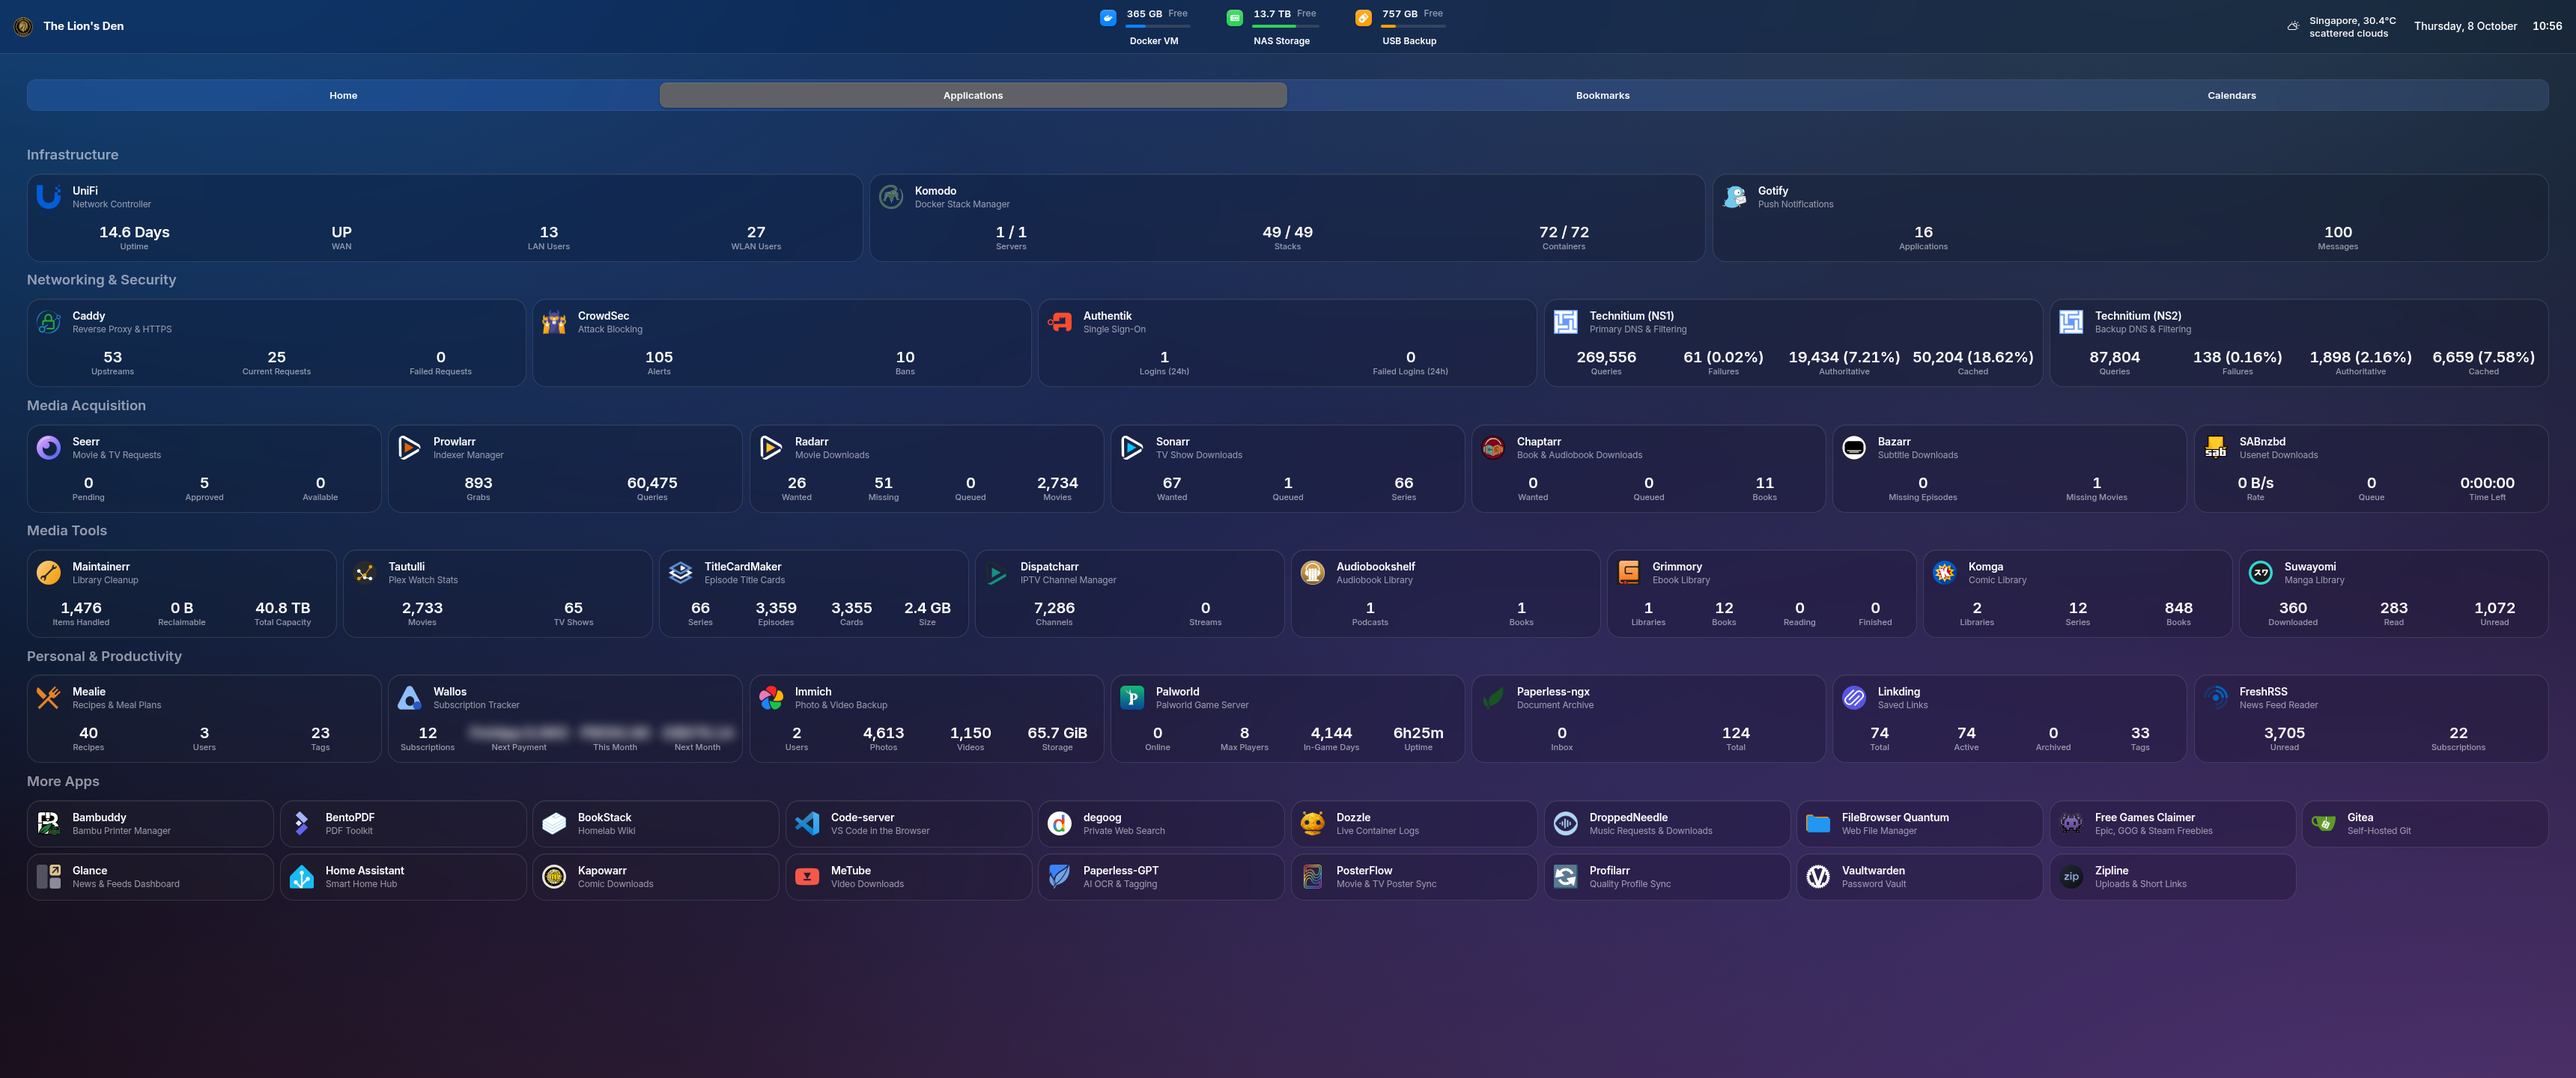
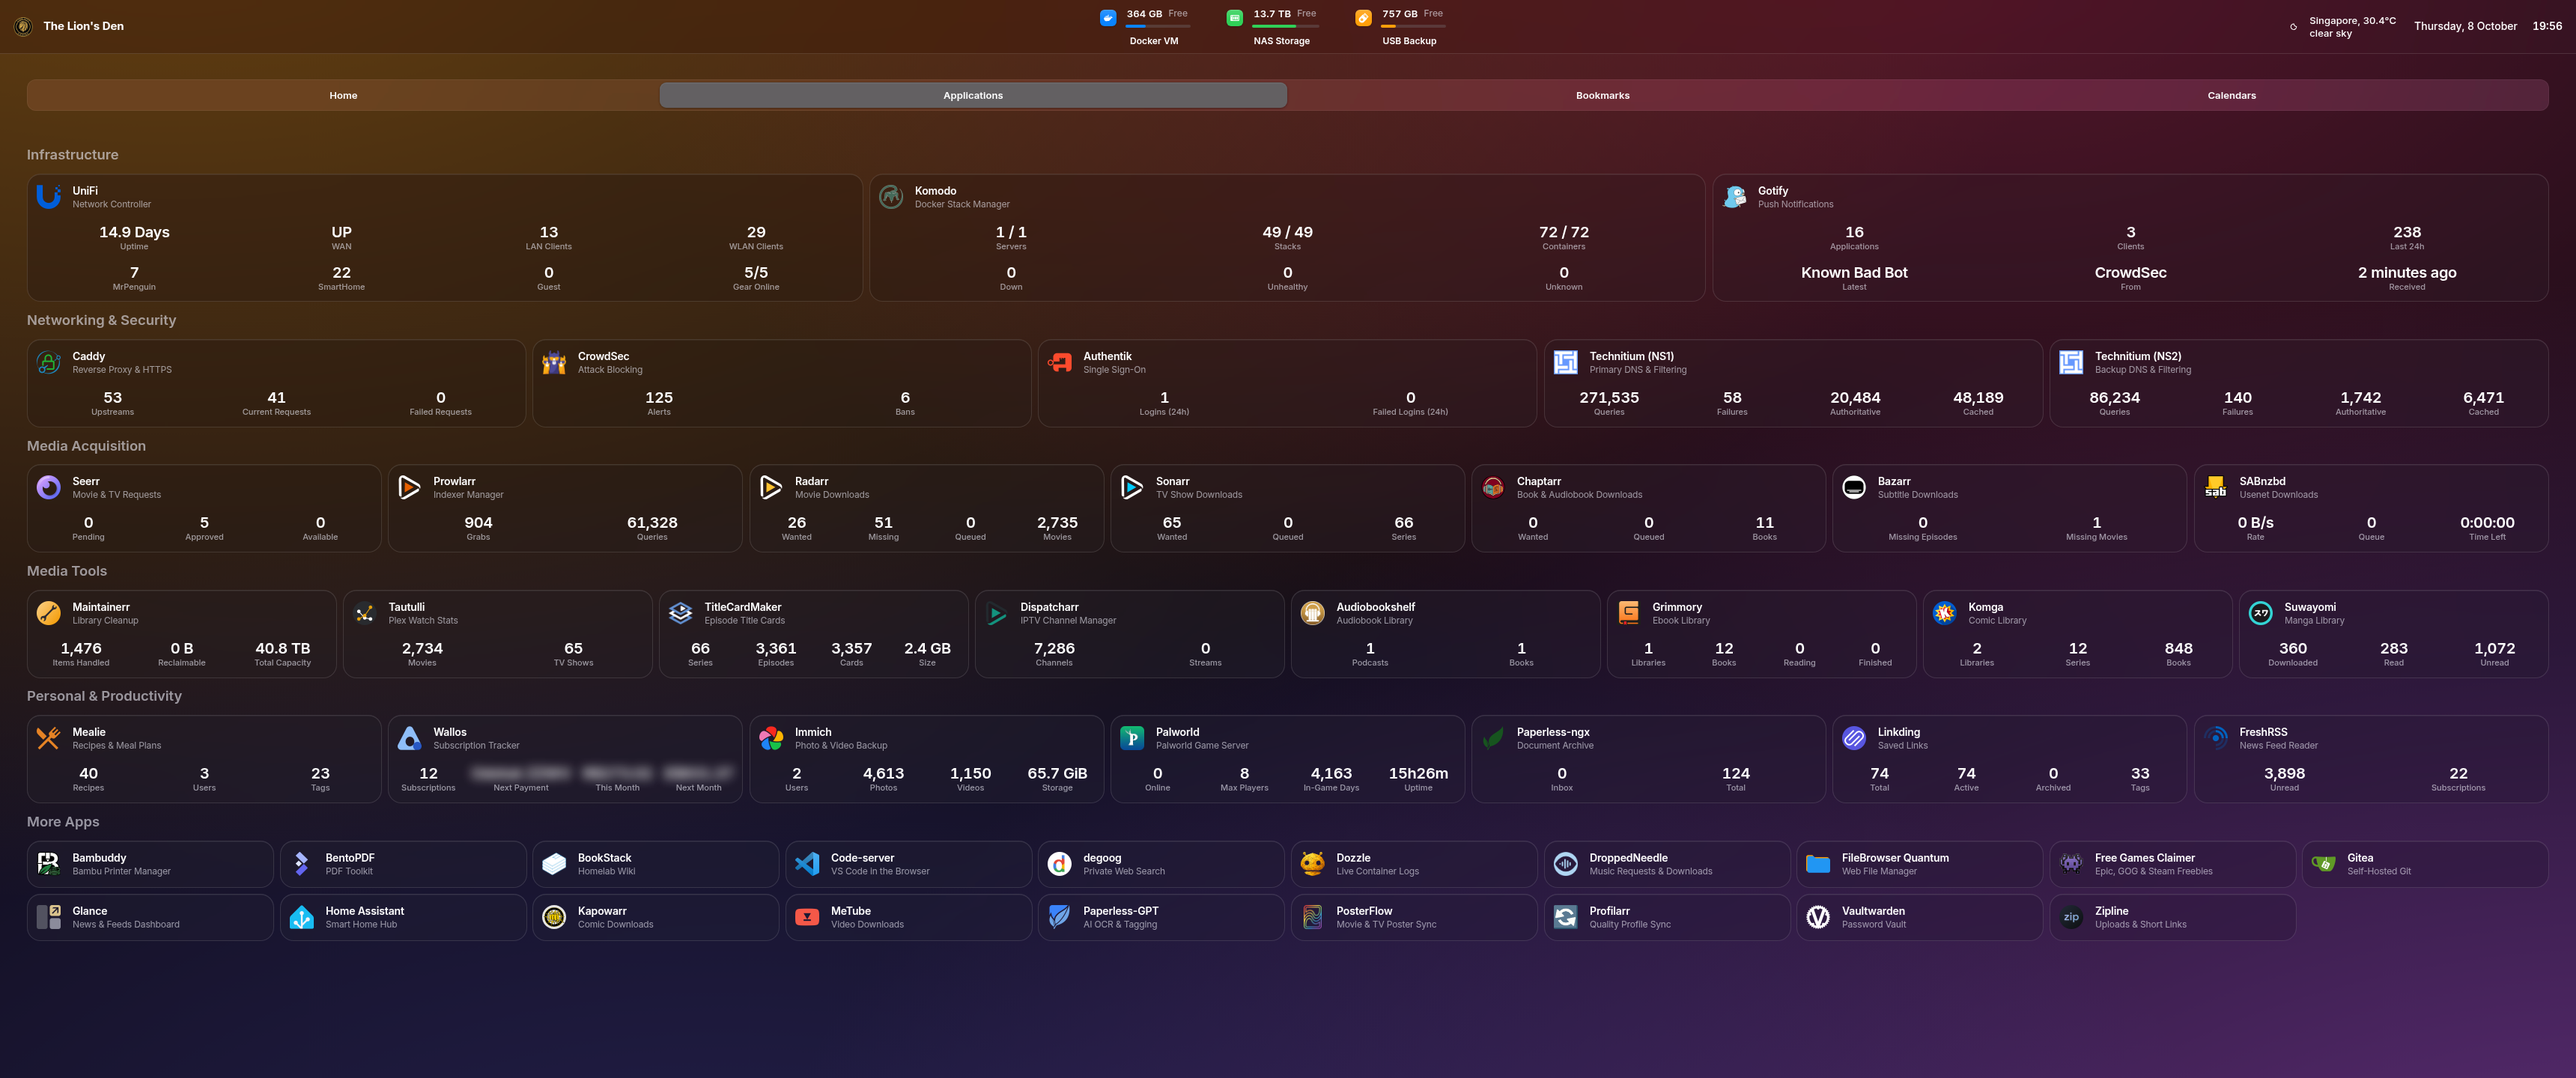
Gotify card counts from its database, UniFi clients labels, new screenshots
Gotify's top row (Applications, Clients, Last 24h) now comes from
extras/gotify-count.sh, as Gotify's API has no totals. UniFi's LAN/WLAN
Users are labelled Clients. All six screenshots retaken with the two-row
UniFi, Komodo and Gotify cards.

diff --git a/custom.js b/custom.js
@@ -198,10 +198,12 @@
   }
 
   /* ---------- widget labels that don't match the rest: PBS "Memory" (Proxmox and Synology say "MEM"),
-     Caddy's sentence-case "Current requests" / "Failed requests" (every other label is Title Case) ---------- */
+     Caddy's sentence-case "Current requests" / "Failed requests" (every other label is Title Case),
+     UniFi's "LAN Users" / "WLAN Users", which count connected clients ("Devices" there means UniFi gear) ---------- */
   const LABELS = [
     ["Proxmox Backup", { "Memory": "MEM" }],
     ["Caddy", { "Current requests": "Current Requests", "Failed requests": "Failed Requests" }],
+    ["UniFi", { "LAN Users": "LAN Clients", "WLAN Users": "WLAN Clients" }],
   ];
 
   function widgetLabels() {

diff --git a/README.md b/README.md
@@ -74,7 +74,7 @@ Phones get their own compact layout automatically (no separate app or URL):
 | `services.yaml` | Every service and its widget |
 | `widgets.yaml` | The top bar: crest, title, weather, date, time and disks |
 | `custom.css` | The whole look, grouped by part of the page (page and background, cards, status dots, tabs, top bar, embedded panels, Calendars lists, search, motion), each part with its own phone rules |
-| `custom.js` | Small helpers: section colours, disk colours and icons, the clock layout, time-of-day and weather moods, the phone layout, Bookmarks columns arranged as a peak (most links in the middle), tidier dates in the Calendars lists, and one row per show in Media Releases when several episodes come out on the same day ("The Terminal List · 8 episodes", every episode in its tooltip), matching labels for the few widgets that word theirs differently, phone app names that shrink to fit their tile, the CrowdSec prefix taken off Gotify alert titles, and Technitium counts without their percentages |
+| `custom.js` | Small helpers: section colours, disk colours and icons, the clock layout, time-of-day and weather moods, the phone layout, Bookmarks columns arranged as a peak (most links in the middle), tidier dates in the Calendars lists, and one row per show in Media Releases when several episodes come out on the same day ("The Terminal List · 8 episodes", every episode in its tooltip), matching labels for the few widgets that word theirs differently (UniFi's users are called clients), phone app names that shrink to fit their tile, the CrowdSec prefix taken off Gotify alert titles, and Technitium counts without their percentages |
 | `.env.example` | Every variable the config uses, with no values |
 | `extras/` | Matching styles for Home Assistant and Glance |
 
@@ -93,13 +93,14 @@ The UniFi, Komodo and Gotify cards have two rows of figures, each from a second 
 {{ gear | select('is_state', 'connected') | list | count }}/{{ gear | count }}
 ```
 
-Gotify messages only carry the app's id, so the `remap` list under the Gotify card turns ids into names; fill it with your own apps.
+Gotify's top row (Applications, Clients, Last 24h) comes from `extras/gotify-count.sh`, which reads Gotify's database every few minutes and writes the counts where Homepage can serve them, because Gotify's API has no totals. Its messages only carry the app's id, so the `remap` list under the Gotify card turns ids into names; fill it with your own apps.
 
 The disk names that get their own icon and colour (`Docker VM`, `NAS Storage`, `USB Backup`) are set in the `DISKS` list in `custom.js`, so rename them there to match your own labels. `custom.js` also shows Singapore dollar amounts as `S$` instead of `SGD` (the `currency()` step); change or remove it for your own currency.
 
 ## Extras
 
 - **`extras/home-assistant-glass-embed.js`** makes Home Assistant dashboards that are embedded in Homepage see-through, with glass cards and the same font. It only kicks in when a dashboard is shown inside an iframe, so Home Assistant itself looks unchanged. Instructions are at the top of the file.
+- **`extras/gotify-count.sh`** writes Gotify's real counts for the Gotify card (instructions at the top).
 - **`extras/glance-glass.css`** does the same for [Glance](https://github.com/glanceapp/glance): add it to the end of your Glance custom CSS.
 
 ## Credits
